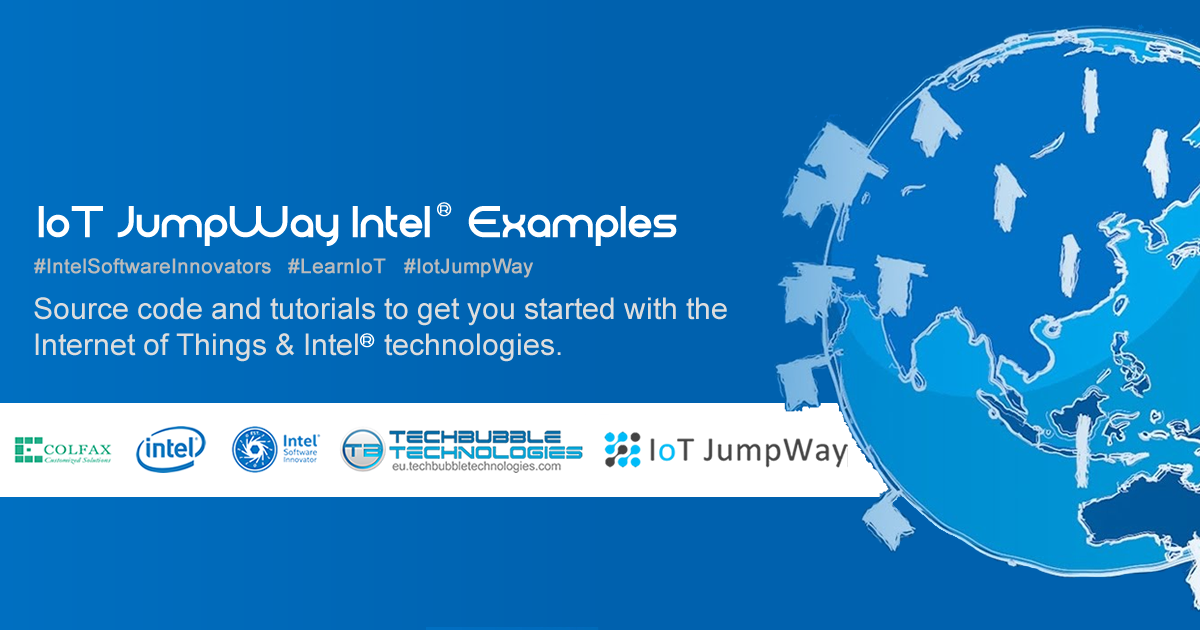
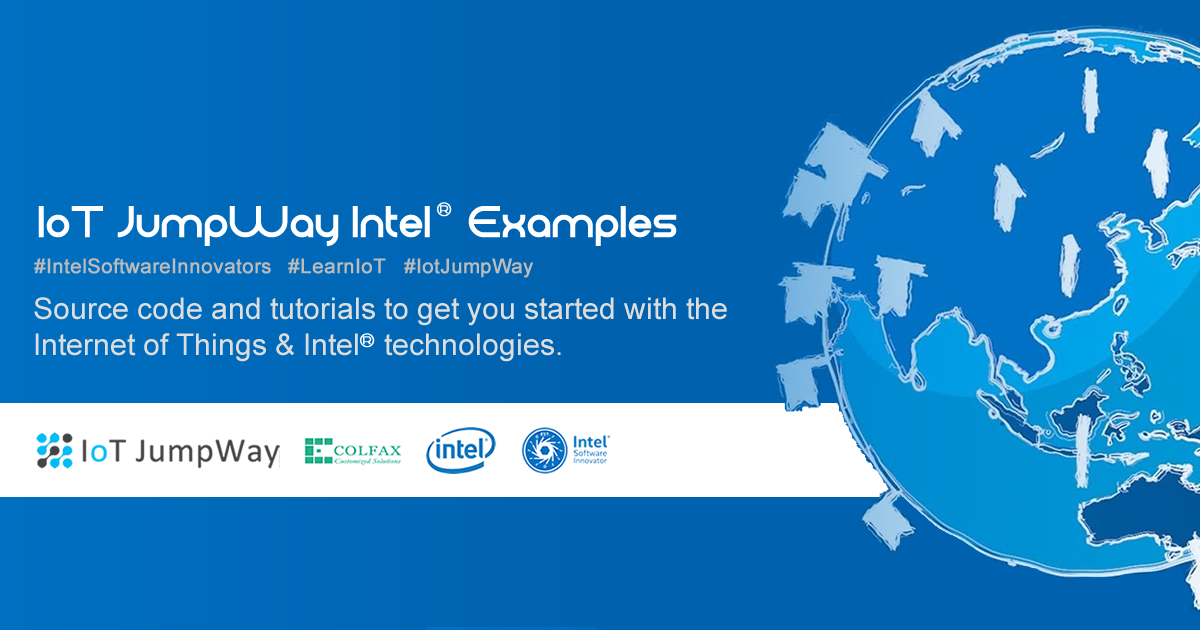
[Core] Updated README

Changed region(s): [[0.0, 0.6635, 0.7092, 0.754]]

diff --git a/README.md b/README.md
@@ -10,7 +10,7 @@ The platform provides an IoT PaaS for IoT communication, tutorials and examples.
 
 The various IoT JumpWay libraries and samples allow you to connect devices and sensors to the IoT JumpWay and control/monitor sensors/actuators and data to and from the devices.
 
-The Intel® examples provide example projects that you can use to get started with using the TechBubble IoT JumpWay for your Intel® IoT Developer Kit, Intel® Edison board, Intel® Galileo, Intel® Joule and Intel® IoT Gateway (Nuc) projects.
+The Intel® examples provide example projects that you can use to get started with using the IoT JumpWay for your Intel® IoT Developer Kit, Intel® Edison board, Intel® Galileo, Intel® Joule and Intel® IoT Gateway (Nuc) projects.
 
 ## Intel® Movidius Examples
 
@@ -53,7 +53,7 @@ The Intel® examples provide example projects that you can use to get started wi
 
 - [Python: Dev Kit LED Example](https://github.com/TechBubbleTechnologies/IoT-JumpWay-Intel-Examples/tree/master/Intel-Edison/Dev-Kit-LED/Python "Python: Dev Kit LED Example"). Set up an Intel® Edison that allows control of an LED on an IoT Dev Kit and an application that can control the LED via the IoT JumpWay.
 
-- [Python: Dev Kit IoT Alarm](https://github.com/TechBubbleTechnologies/IoT-JumpWay-Intel-Examples/tree/master/Intel-Edison/Dev-Kit-IoT-Alarm/NodeJS "Python: Dev Kit IoT Alarm"), Set up an Intel® Edison IoT alarm system that is controlled by the TechBubble Technologies IoT JumpWay.
+- [Python: Dev Kit IoT Alarm](https://github.com/TechBubbleTechnologies/IoT-JumpWay-Intel-Examples/tree/master/Intel-Edison/Dev-Kit-IoT-Alarm/NodeJS "Python: Dev Kit IoT Alarm"), Set up an Intel® Edison IoT alarm system that is controlled by the IoT JumpWay.
 
 ## Intel® Galileo Examples
 
@@ -63,12 +63,10 @@ The Intel® examples provide example projects that you can use to get started wi
 
 - [Python: Dev Kit LED Example](https://github.com/TechBubbleTechnologies/IoT-JumpWay-Intel-Examples/tree/master/Intel-Galileo/Dev-Kit-LED/Python "Python: Dev Kit LED Example"). Set up an Intel® Galileo that allows control of an LED on an IoT Dev Kit and an application that can control the LED via the IoT JumpWay.
 
-## IoT JumpWay Intel® Bugs/Issues
+## Bugs/Issues
 
-Please feel free to create issues for bugs and general issues you come accross whilst using the IoT JumpWay Intel Examples. You may also use the issues area to ask for general help whilst using the IoT JumpWay Intel Examples in your IoT projects.
+Please feel free to create issues for bugs and general issues you come across whilst using this or any other Intel® related IoT JumpWay issues. You may also use the issues area to ask for general help whilst using the IoT JumpWay in your IoT projects.
 
-## IoT JumpWay Intel® Contributors
+## Contributors
 
-[Adam Milton-Barker, TechBubble Technologies Founder](https://github.com/AdamMiltonBarker "Adam Milton-Barker, TechBubble Technologies Founder")
-
-![Adam Milton-Barker,  Intel Software Innovator](images/main/Intel-Software-Innovator.jpg)
+[![Adam Milton-Barker, Intel® Software Innovator](images/main/Intel-Software-Innovator.jpg)](https://github.com/AdamMiltonBarker)
